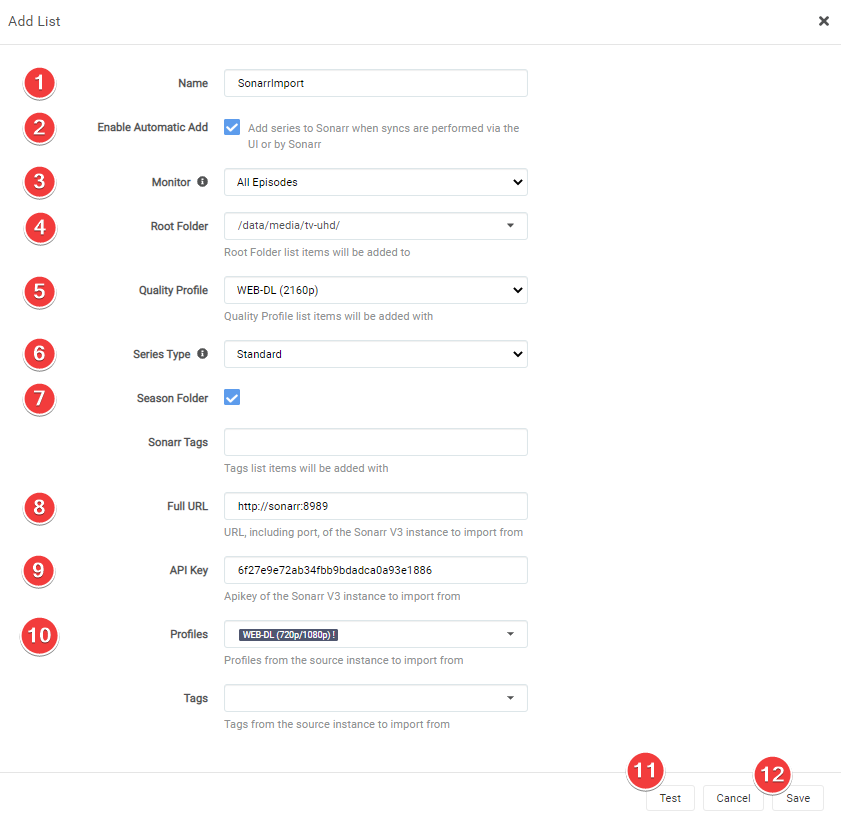
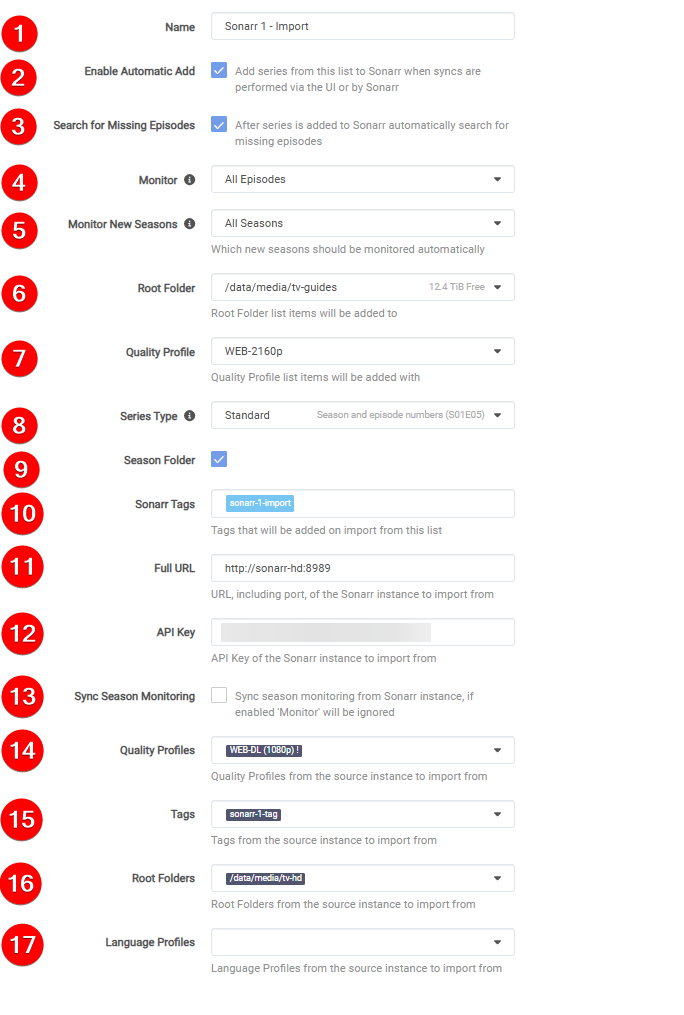
feat(Guides): Updated `How to Sync 2 Radarr or Sonarr`

diff --git a/docs/Radarr/Tips/Sync-2-radarr-sonarr.md b/docs/Radarr/Tips/Sync-2-radarr-sonarr.md
@@ -1,5 +1,6 @@
 # How to Sync 2 Radarr or Sonarr with each other
 
+<div class="annotate" markdown>
 In this guide I will try to explain how you can sync two (or more) Radarr/Sonarr instances with each other.
 
 I'm going to show two different options on how you can setup your sync with two Radarr/Sonarr instances.
@@ -34,7 +35,7 @@ For this you need to have prepared the following:
     In this example I'm going to use two Radarr instances (The basics is the same for Sonarr).
 
     - `Radarr 1` = My main 4K/2160p (UHD) Radarr.
-    - `Radarr 2` = My 1080p Radarr that I've setup for a streaming optimized quality profile.[^1]
+    - `Radarr 2` = My 1080p Radarr that I've setup for a streaming optimized quality profile. [^1]
 
     This option is best used if you want a 1:1 copy of your Radarr/Sonarr instances
 
@@ -57,14 +58,15 @@ Then you get a screen with the following options:
 1. Enable so the movies will be automatically added.
 1. Enable so the movies will be added and monitored (if disabled then there will be no search done for the movies).
 1. Enable so Radarr will perform a search when a movie is added.
-1. When Radarr shall consider a movie as available.[^2]
-1. The Quality Profile you want to use on `Radarr 2`.
-1. Your root location for your media library.
-1. The Full URL to `Radarr 1` (Use local URL if they run on the same system).
-1. Your API Key of `Radarr 1`.
-1. Which Profile of `Radarr 1` you want to Sync with `Radarr 2`.
-1. Test the connection to `Radarr 1`.
-1. Save your settings.
+1. When Radarr shall consider a movie as available. (1)
+1. The Quality Profile you want to use for `Radarr 2`.
+1. Your `Radarr 2` root location for your media library.
+1. Tags that will be added on import from this list (if you use multiple lists it makes it easier to determine from which list the movie was added)
+1. The Full URL to `Radarr 1` (Use container name or local URL if they run on the same system).
+1. Your API Key of `Radarr 1`. :material-alert-circle:{ title="After adding your API key, click on the test button at the bottom to see if you have a successful connection." }
+1. Which Profile of `Radarr 1` you want to Sync with `Radarr 2`. :material-alert-circle:{ title="The dropdown box is filled after you made a successful connection with Radarr 1" }
+1. [_Optional_] Use tags from `Radarr 1` to add Movies to `Radarr 2`. :material-alert-circle:{ title="The dropdown box is filled after you made a successful connection with Radarr 1" }
+1. [_Optional_] Add all movies from the chosen root folder from `Radarr 1`. :material-alert-circle:{ title="The dropdown box is filled after you made a successful connection with Radarr 1" }
 
 #### Radarr Download client setup
 
@@ -126,17 +128,22 @@ Then you get a screen with the following options:
 ![!Sonarr Add Lists Options](images/sonarr-add-lists-options.png)
 
 1. The name you want to call your Sync list.
-1. Enable so the shows will be automatically added.
-1. Choose your monitoring options.[^3]
-1. Your root location for your media library.
-1. The Quality Profile you want to use on `Sonarr 2`.
-1. Series Type.[^4]
-1. If you want to use Season Folders.
-1. The Full URL to `Sonarr 1` (Use local URL if they run on the same system).
-1. Your API Key of `Sonarr 1`.
+1. Enable so the TV Shows will be automatically added.
+1. Enable so Sonarr will perform a search when a TV Show is added.
+1. Choose How do you want the series monitored initially. (2)
+1. Which new seasons should be monitored automatically. (3)
+1. Your `Sonarr 2` root location for your media library.
+1. The Quality Profile you want to use for `Sonarr 2`.
+1. Series Type. (4)
+1. If you want to use Season Folders (**RECOMMENDED**).
+1. Tags that will be added on import from this list (if you use multiple lists it makes it easier to determine from which list the TV Shows was added)
+1. The Full URL to `Sonarr 1` (Use container name or local URL if they run on the same system).
+1. Your API Key of `Sonarr 1`. :material-alert-circle:{ title="After adding your API key, click on the test button at the bottom to see if you have a successful connection." }
+1. Sync season monitoring (**SUGGESTION: DISABLED**)
 1. The Cloned Profile of `Sonarr 1` that we're going to use to sync with `Sonarr 2`.
-1. Test the connection to `Sonarr 1`.
-1. Save your settings.
+1. [_Optional_] Use tags from `Sonarr 1` to add TV Shows to `Sonarr 2`. :material-alert-circle:{ title="The dropdown box is filled after you made a successful connection with Sonarr 1" }
+1. [_Optional_] Add all TV Shows from the chosen root folder from `Sonarr 1`. :material-alert-circle:{ title="The dropdown box is filled after you made a successful connection with Sonarr 1" }
+1. This is a Deprecated option.
 
 #### Sonarr Download client setup
 
@@ -161,6 +168,9 @@ Only thing you need to change/create is a separate `Category` that you're going 
 You now only need to make use of `Sonarr 1`. When you got a TV show (or a movie if you use this option with Radarr) that you also want as 4K/2160p (UHD) then you make sure you make use of the Cloned Quality Profile. And it will sync at a scheduled time.
 
 ---
+</div>
+
+--8<-- "includes/annotations-sync-2-radarr-sonar.md"
 
 [^1]:
 
@@ -179,27 +189,5 @@ You now only need to make use of `Sonarr 1`. When you got a TV show (or a movie 
     - You want maximum compatibility between all devices and still have a HQ release.
     - You run two instances of Radarr and want both versions or just for the 1080p ones.
     - You want to have minimum to none transcoding for low powered devices or remote streaming.
-
-[^2]:
-
-    - **Announced**: Radarr will consider movies available as soon as they are added to Radarr. This setting is recommended if you have good private trackers that do not have fakes.
-    - **In Cinemas**: Radarr will consider movies available as soon as movies hit cinemas. This option is not recommended.
-    - **Released**: Radarr will consider movies available as soon as the Blu-ray is released. This option is recommended if your indexers contain fakes often.
-
-[^3]:
-
-    - **All Episodes**: Monitor all episodes except specials
-    - **Future Episodes**: Monitor episodes that have not aired yet
-    - **Missing Episodes**: Monitor episodes that do not have files or have not aired yet
-    - **Existing Episodes**: Monitor episodes that have files or have not aired yet
-    - **First Season**: Monitor all episodes of the first season. All other seasons will be ignored
-    - **Latest Season**: Monitor all episodes of the latest season and future seasons
-    - **None**: No episodes will be monitored
-
-[^4]:
-
-    - **Anime**: Episodes released using an absolute episode number
-    - **Daily**: Episodes released daily or less frequently that use year-month-day (2017-05-25)
-    - **Standard**: Episodes released with SxxEyy pattern
 
 --8<-- "includes/support.md"

diff --git a/includes/annotations-sync-2-radarr-sonar.md b/includes/annotations-sync-2-radarr-sonar.md
@@ -1,0 +1,19 @@
+1.  - **Announced**: Radarr shall consider movies available as soon as they are added to Radarr. This setting is recommended if you have good private trackers that do not have fakes.
+    - **In Cinemas**: Radarr shall consider movies available as soon as movies hit cinemas (Theatrical Date on TMDb) This option is not recommended.
+    - **Released**: Radarr shall consider movies available as soon as the Blu-Ray or streaming version is released (Digital and Physical dates on TMDb) This option is recommended and likely should be combined with an Availability Delay of `-14` or `-21` days.
+2.  - **All Episodes**: Monitor all episodes except specials
+    - **Future Episodes**: Monitor episodes that have not aired yet
+    - **Missing Episodes**: Monitor episodes that do not have files or have not aired yet
+    - **Existing Episodes**: Monitor episodes that have files or have not aired yet
+    - **Recent Episodes**: Monitor episodes aired within the last 90 days and future episodes
+    - **Pilot Episode**: Only monitor the first episode of the first season
+    - **First Season**: Monitor all episodes of the first season. All other seasons will be ignored
+    - **Last Season**: Monitor all episodes of the last season
+    - **Monitor Specials**: Monitor all special episodes without changing the monitored status of other episodes
+    - **Unmonitor Specials**:Unmonitor all special episodes without changing the monitored status of other episodes
+    - **None**: No episodes will be monitored
+3.  - **All Seasons**: Monitor all new seasons automatically
+    - **No New Seasons**: Do not monitor any new seasons automatically
+4.  - **Anime**: Episodes released using an absolute episode number
+    - **Daily**: Episodes released daily or less frequently that use year-month-day (2017-05-25)
+    - **Standard**: Episodes released with SxxEyy pattern
